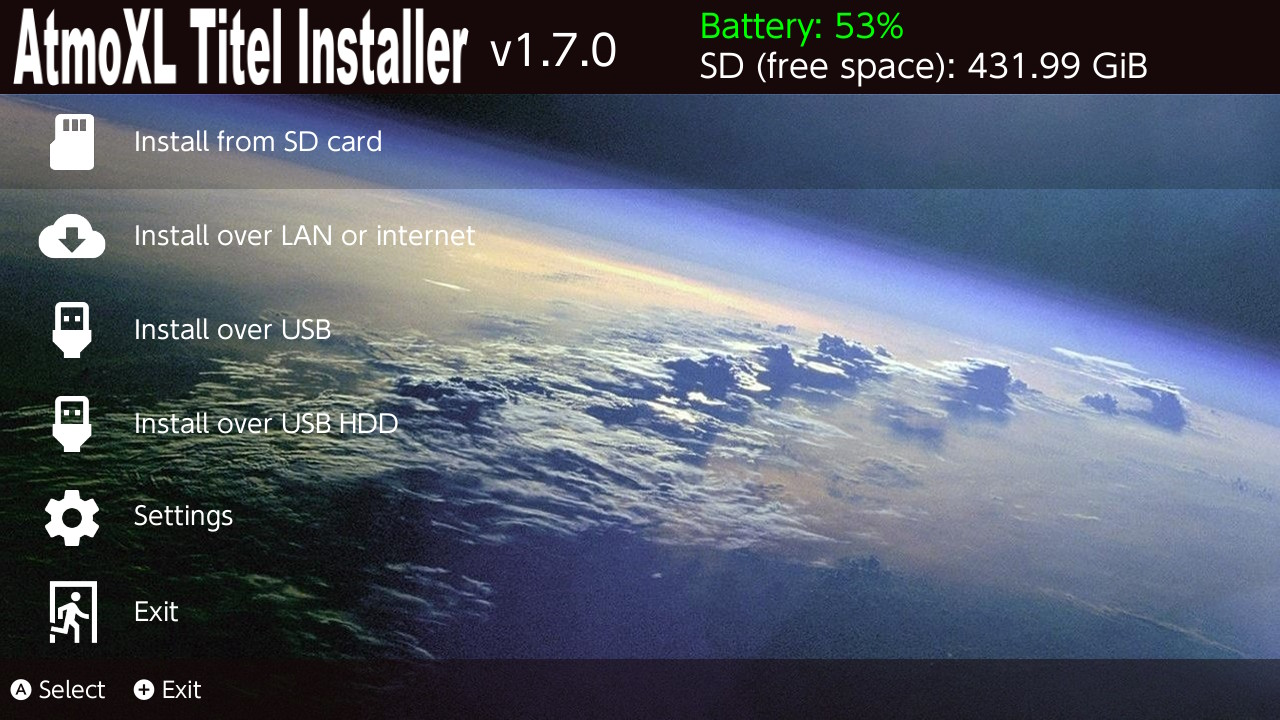
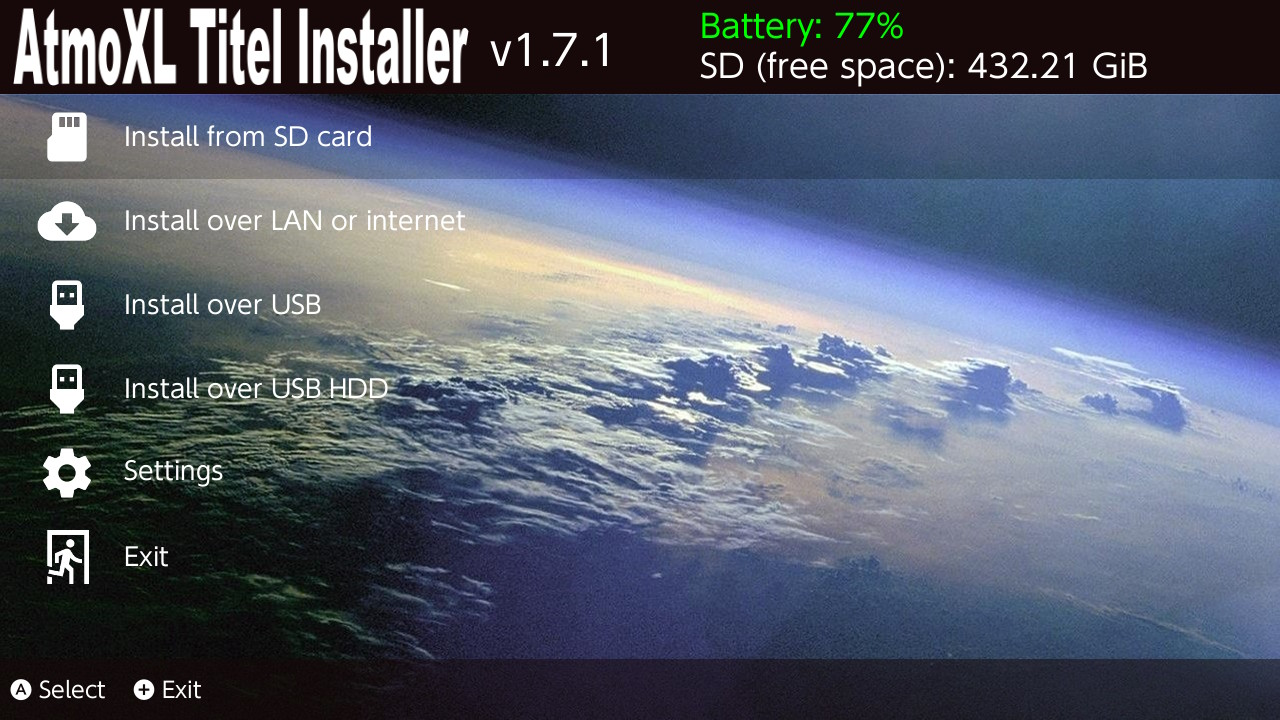
update README

diff --git a/README.md b/README.md
@@ -22,9 +22,12 @@ To use this, you must place the "themecolor.json" at ATI dir.
 
 [Download themecolor.json](https://raw.githubusercontent.com/dezem/AtmoXL-Titel-Installer/master/themecolor.json)
 
-https://github.com/dezem/AtmoXL-Titel-Installer/blob/dc82b2aba0b5902bd141204a38dc607fcaaa85bb/themecolor.json#L1-L8
+https://github.com/dezem/AtmoXL-Titel-Installer/blob/dc82b2aba0b5902bd141204a38dc607fcaaa85bb/themecolor.json#L1-L9
 
 Use your wanted HEX colors -> https://www.w3schools.com/colors/colors_picker.asp
+
+![AtmoXL-Titel-Installer Main small](https://raw.githubusercontent.com/dezem/AtmoXL-Titel-Installer/master/AtmoXL-Titel-Installer-Main-small.jpg)
+Chose your font size
 
 
 ## Thanks to
